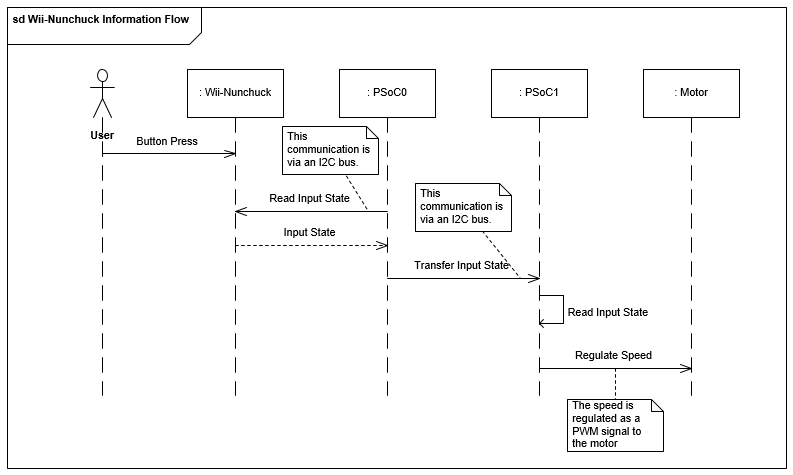
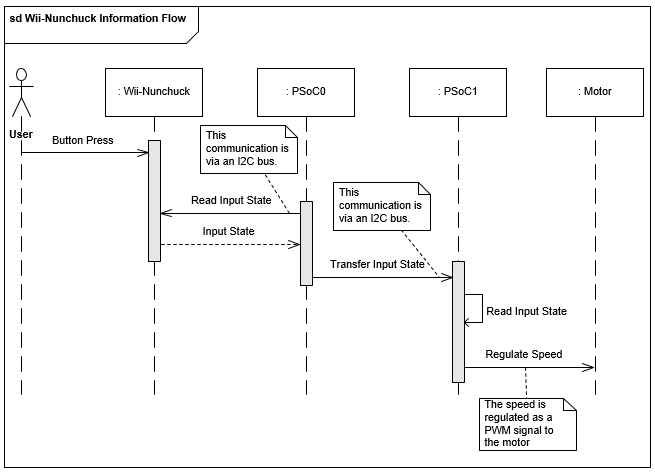
Added descriptions to sequence diagrams for software architecture

diff --git a/ProjektRapport/Afsnit/Systemarkitektur/SystemArkitektur.tex b/ProjektRapport/Afsnit/Systemarkitektur/SystemArkitektur.tex
@@ -110,6 +110,8 @@ På figur \ref{figure:ibdDiagram} ses IBD'et for systemet. Figuren viser hardwar
 	\label{figure:ibdDiagram}
 \end{figure}
 
+Her vises alle hardwareblokke med de fysiske forbindelser beskrevet i BDD'et (figur \ref{figure:bddDiagram}). 
+
 Det ses at systemet bliver påvirket af tre eksterne signaler: \textit{touch}, \textit{input}, samt \textit{voltage}. \textit{touch} er input fra brugeren når der interageres med brugergrænsefladen. \textit{input} er brugerens interaktion med Wii-Nunchuk. \textit{voltage} er forsyningsspænding til systemet.
 
 \subsection{Signalbeskrivelse}
@@ -136,8 +138,33 @@ Det ses at systemet bliver påvirket af tre eksterne signaler: \textit{touch}, \
 	\caption{Signalbeskrivelse}
 \end{longtable}
 
-
 \section{Software}
+Til produktet er der udviklet software til CPU'erne præsenteret i Software Allokering, afsnit \ref{afsnit:SoftwareAllokering}, figur \ref*{figure:allocationDiagram}.
+
+Dette afsnit har til formål at demonstrere sammenhængen mellem softwaren på CPU'erne og resten af systemet, samt at beskrive og identificere grænsefladerne brugt til kommunikation mellem dem. Yderligere vil klasseidentifikation også blive vist, hvor disse klasser vil specificeres i Design og Implementering.
+
+\subsection{Sekvensdiagrammer}
+
+\subsubsection{Wii-Nunchuck Information Flow}
+En essentiel del af systemet er at kunne styre motoren ved brug af Wii-Nunchuck controlleren. På figur \ref{fig:WiiNunchuckSekvensDiagram} vises gennemløbet af Wii-Nunchuck input data fra Wii-Nunchuken til motoren, med de relevante CPU'er angivet. Her ses det at input data fra Wii-Nunchuck kontinuert bliver aflæst af PSoC0. Det bemærkes her at grænsefladen mellem PSoC0 og Wii-Nunchuck er en I2C bus. Efter at PSoC0 har aflæst input data'en, overføres den til PSoC1. Grænsefladen mellem disse to PSoCs er også en I2C bus. PSoC1 kan til slut oversætte modtaget input data til PWM signaler til motorstyring samt affyring.
+
+\begin{figure}[H]
+	\centering
+	\includegraphics[width=\textwidth] {Systemarkitektur/images/WiiNunchuckSequenceDiagram}
+	\caption{Wii-Nunchuck Input Data Forløb}
+	\label{fig:WiiNunchuckSekvensDiagram}
+\end{figure}
+
+\subsubsection{System Test}
+Use Case 2 beskriver test af systemet før spillet startes. På figur \ref{fig:SystemTestSekvensDiagram} vises test sekvensen. Det ses her at 
+
+\begin{figure}[H]
+	\centering
+	\includegraphics[width=\textwidth] {Systemarkitektur/images/DevKit8000SequenceDiagram}
+	\caption{System Test Forløb}
+	\label{fig:SystemTestSekvensDiagram}
+\end{figure}
+
 \subsection{SPI Kommunikations Protokol}
 I afsnit \ref{afsnit:IBD} \textbf{IBD} ses på figur \ref{figure:ibdDiagram} at Devkit8000 og PSoC0 kommunikerer via en SPI bus. Kommunikationen foregår ved at der sendes kommandotyper imellem de to enheder, SPI-master og SPI-slave. På tabel \ref{tabel:spiKommandoType} ses en de anvendte kommandotyper samt en kort beskrivelse for hver af disse.
 
